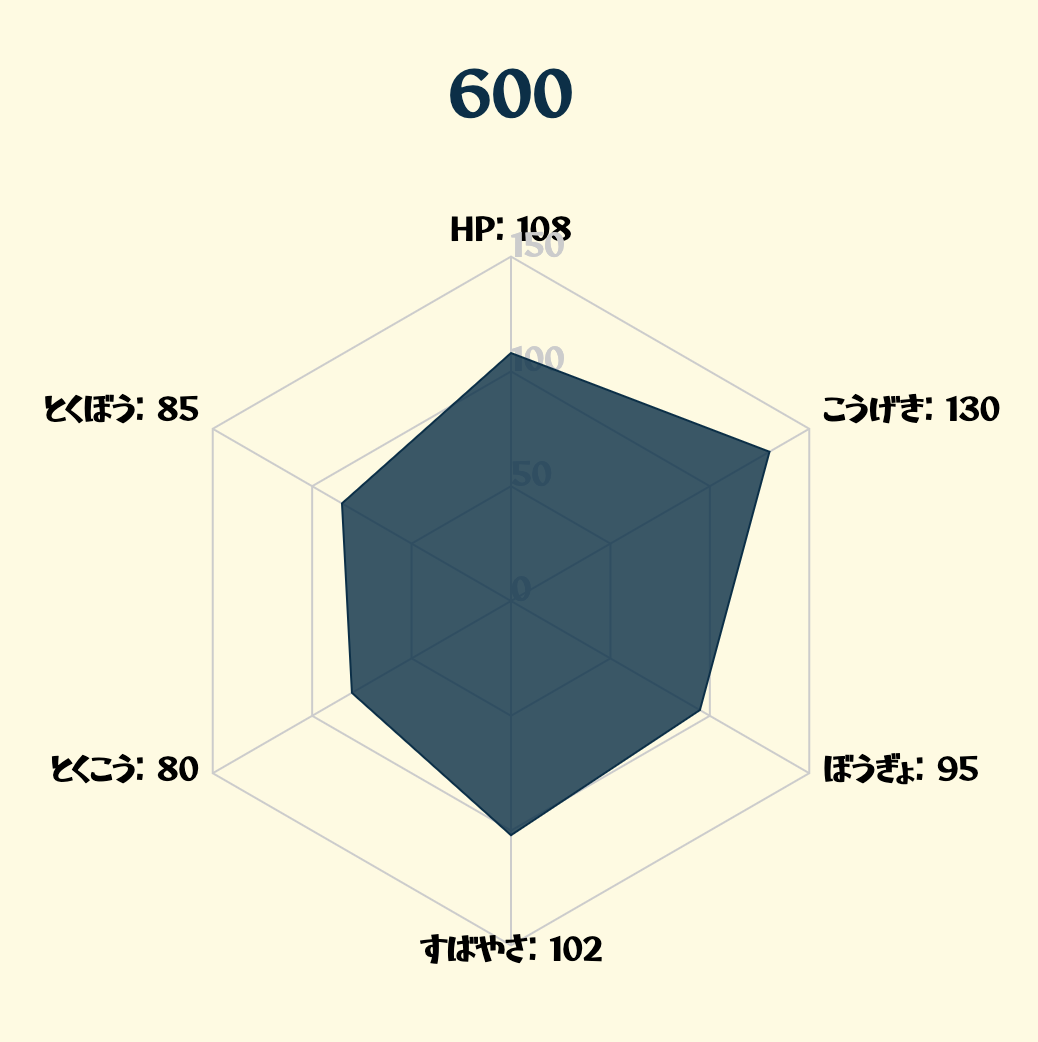
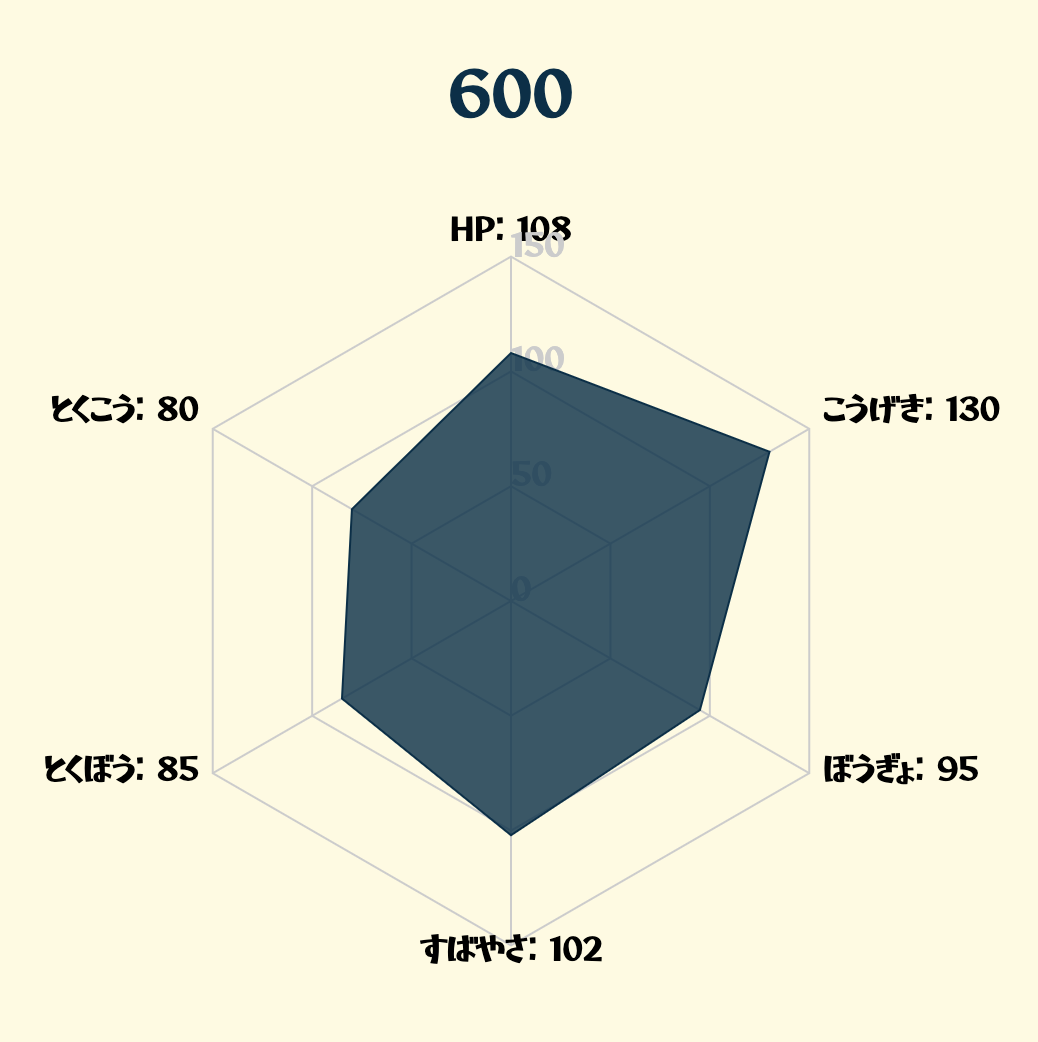
link外し

diff --git a/src/components/NextPageLink/NextPageLink.tsx b/src/components/NextPageLink/NextPageLink.tsx
@@ -1,5 +1,4 @@
 import { css } from "@emotion/react";
-import Link from "next/link";
 import React from "react";
 import { Button } from "../Button";
 import { useNextPageLink } from "./useNextPageLink";
@@ -12,48 +11,36 @@ type NextPageLinkProps = {
 export const NextPageLink: React.FunctionComponent<NextPageLinkProps> = (
   props,
 ) => {
-  const { disabled, url, isValidUrl, handleLinkClick } = useNextPageLink(
-    props.onClick,
-  );
+  const { disabled, isValidUrl, handleClick } = useNextPageLink(props.onClick);
 
   return (
-    <Link passHref href={url}>
-      <a
-        className={props.className}
-        css={[
-          css`
-            display: block;
-          `,
-          (disabled || !isValidUrl) &&
-            css`
-              cursor: wait;
-              opacity: 0.7;
-              pointer-events: none;
-            `,
-        ]}
-        onClick={handleLinkClick}
-      >
-        <Button
-          css={(theme) =>
-            css`
-              background-color: ${theme.colors.black};
-              height: 100%;
-              transition: background-color ${theme.duration}ms;
-              width: 100%;
-              &:hover,
-              &:active {
-                background-color: ${theme.colors.blue};
-              }
-              & > span.MuiButton-label {
-                color: ${theme.colors.white};
-                font-weight: bold;
-              }
-            `
+    <Button
+      className={props.className}
+      css={(theme) => [
+        css`
+          background-color: ${theme.colors.black};
+          height: 100%;
+          transition: background-color ${theme.duration}ms;
+          width: 100%;
+          &:hover,
+          &:active {
+            background-color: ${theme.colors.blue};
           }
-        >
-          {props.children}
-        </Button>
-      </a>
-    </Link>
+          & > span.MuiButton-label {
+            color: ${theme.colors.white};
+            font-weight: bold;
+          }
+        `,
+        (disabled || !isValidUrl) &&
+          css`
+            cursor: wait;
+            opacity: 0.7;
+          `,
+      ]}
+      disabled={disabled}
+      onClick={handleClick}
+    >
+      {props.children}
+    </Button>
   );
 };

diff --git a/src/templates/Quiz/AnswerForm/ResultModal/ResultModal.tsx b/src/templates/Quiz/AnswerForm/ResultModal/ResultModal.tsx
@@ -116,12 +116,10 @@ export const ResultModal: React.VoidFunctionComponent<ResultModalProps> = (
         <NextPageLink
           css={[
             css`
+              border-radius: 2rem;
               height: 4rem;
               width: 320px;
-              & > button.MuiButton-root {
-                border-radius: 2rem;
-              }
-              & > button.MuiButton-root > span.MuiButton-label {
+              & > span.MuiButton-label {
                 font-size: 2rem;
               }
             `,
@@ -129,7 +127,7 @@ export const ResultModal: React.VoidFunctionComponent<ResultModalProps> = (
               css`
                 height: 2.8rem;
                 width: 160px;
-                & > button.MuiButton-root > span.MuiButton-label {
+                & > span.MuiButton-label {
                   font-size: 1.4rem;
                 }
               `,

diff --git a/src/templates/Top/QuizStartLink/QuizStartLink.tsx b/src/templates/Top/QuizStartLink/QuizStartLink.tsx
@@ -10,18 +10,16 @@ export const QuizStartLink: React.VoidFunctionComponent = () => {
     <NextPageLink
       css={[
         css`
+          border-radius: 2rem;
           height: 4rem;
-          & > button.MuiButton-root {
-            border-radius: 2rem;
-          }
-          & > button.MuiButton-root > span.MuiButton-label {
+          & > span.MuiButton-label {
             font-size: 2rem;
           }
         `,
         !isDesktop &&
           css`
             height: 3.2rem;
-            & > button.MuiButton-root > span.MuiButton-label {
+            & > span.MuiButton-label {
               font-size: 1.6rem;
             }
           `,

diff --git a/src/components/NextPageLink/useNextPageLink.ts b/src/components/NextPageLink/useNextPageLink.ts
@@ -15,10 +15,7 @@ export const useNextPageLink = (onClick?: VoidFunction) => {
     setDisabled(false);
   }, [router.query]);
 
-  const handleLinkClick: React.MouseEventHandler<HTMLAnchorElement> = (
-    event,
-  ) => {
-    event.preventDefault();
+  const handleClick: React.MouseEventHandler<HTMLButtonElement> = () => {
     setDisabled(true);
     setResult.increment("quizCount");
     if (onClick) {
@@ -27,5 +24,5 @@ export const useNextPageLink = (onClick?: VoidFunction) => {
     router.push(url);
   };
 
-  return { disabled, url, isValidUrl, handleLinkClick };
+  return { disabled, url, isValidUrl, handleClick };
 };

diff --git a/src/templates/Quiz/StatusChart/StatusChart.tsx b/src/templates/Quiz/StatusChart/StatusChart.tsx
@@ -44,13 +44,13 @@ export const StatusChart: React.VoidFunctionComponent<StatusChartProps> = (
       fullMark: FULL_MARK,
     },
     {
-      status: `とくこう: ${props.contact}`,
-      value: props.contact,
+      status: `とくぼう: ${props.defense}`,
+      value: props.defense,
       fullMark: FULL_MARK,
     },
     {
-      status: `とくぼう: ${props.defense}`,
-      value: props.defense,
+      status: `とくこう: ${props.contact}`,
+      value: props.contact,
       fullMark: FULL_MARK,
     },
   ];
